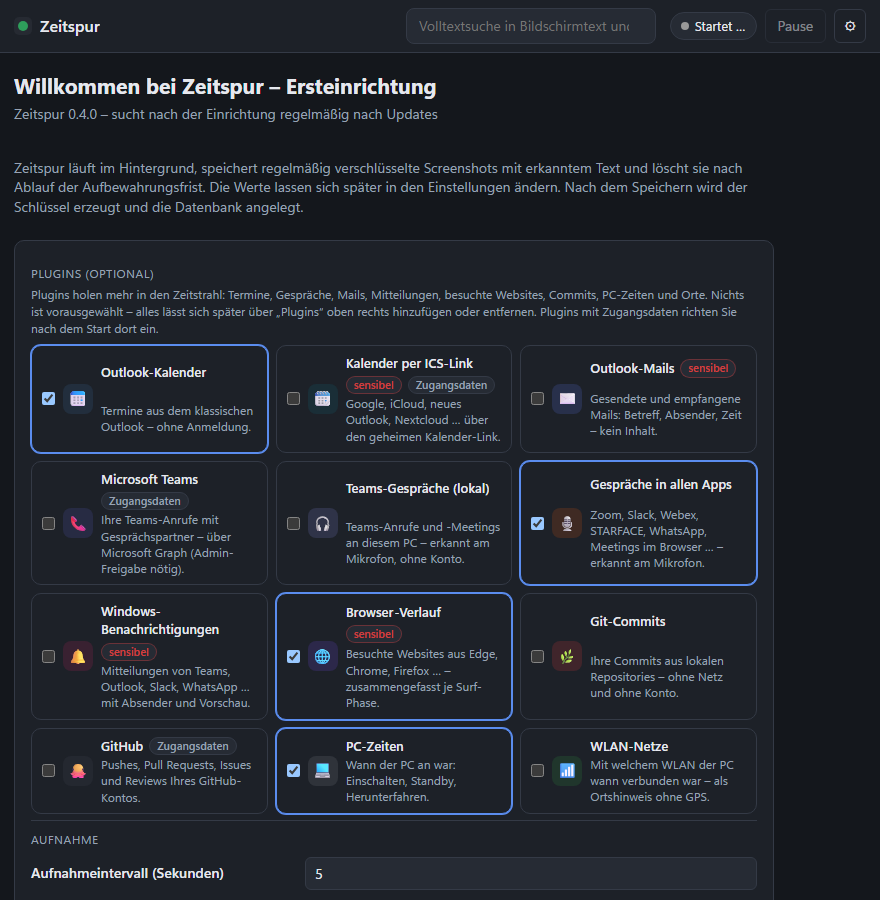
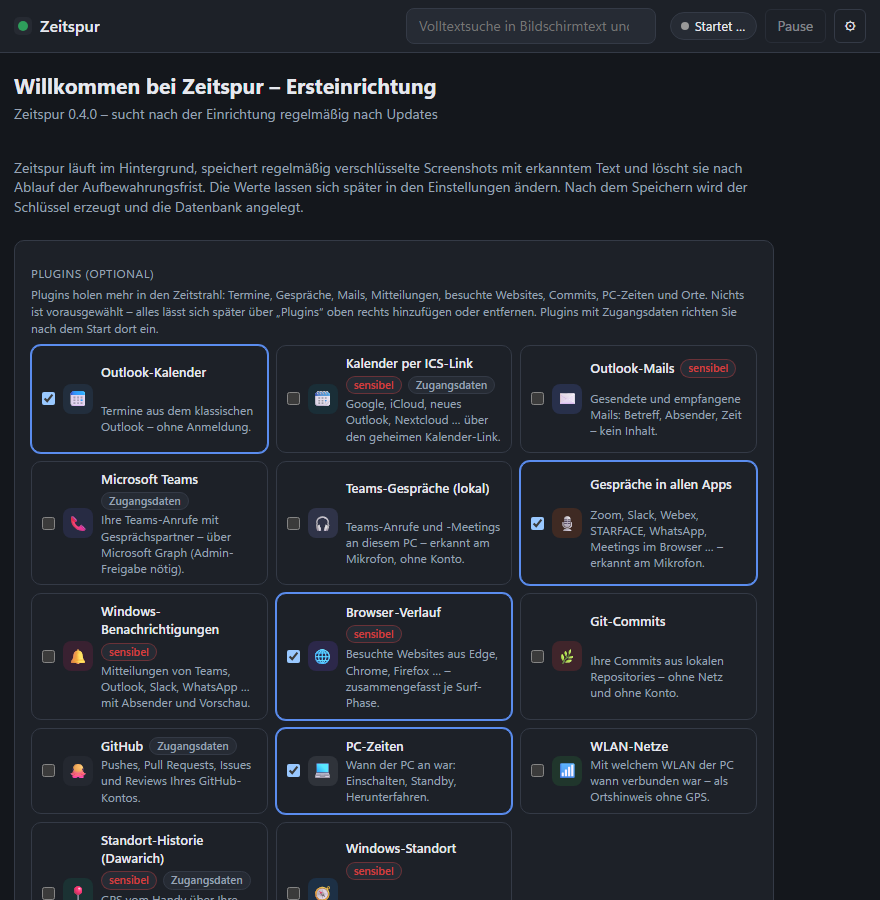
README und Screenshots auf den Stand von 0.4.0
Screenshot-Werkzeug repariert: Seit der CSP-Härtung in 0.4.0 blockierte die Oberfläche die eingeschleusten
Demo-Antworten (ohne Nonce, an falscher Stelle) - tools\screenshots.py hätte nur leere Bilder geliefert. Der
Demo-Tag ist jetzt gestern, weil die Standort-Spur nie über "jetzt" hinausreicht (sonst hingen die Bilder von
der Uhrzeit ab), und die Detailansicht klickt in genau den vorbereiteten Eintrag statt auf eine Grenze.

Die Demo hat einen GPS-Tag (Zuhause, Autofahrt ins Büro, zu Fuß zum Mittagessen und zurück), gebaut mit
dawarich.events_from_points wie im echten Plugin. Neues Bild orte.png zeigt den Tagesablauf der Standort-Spur.

README: Ausschlussliste gilt für jedes sichtbare Fenster, tägliche Sicherung dokumentiert (samt Zurückspielen),
fehlende Konfigurationsschlüssel, Tray-Eintrag "Nach Updates suchen", Kopfzeile mit Orte und Plugins,
MCP-Werkzeuge mit allen Plugin-Ereignissen, die Karte ist nicht mehr die "einzige" Internet-Stelle,
Projektstruktur vervollständigt, Projektseite jetzt auf www.timschaller.de.

Tests: Die Demo-Seite erfüllt die CSP; der Demo-Tag erzählt stimmige Wege.

Changed region(s): [[0.0307, 0.9022, 0.2761, 1.0], [0.3068, 0.9333, 0.5216, 1.0]]

diff --git a/tools/demo_ui.py b/tools/demo_ui.py
@@ -12,8 +12,10 @@ from __future__ import annotations
 
 import argparse
 import json
+import math
 import os
 import random
+import re
 import sys
 import tempfile
 import threading
@@ -24,11 +26,54 @@ ROOT = Path(__file__).resolve().parents[1]
 sys.path.insert(0, str(ROOT))
 
 DEMO_PLUGINS = ["outlook", "calls_local", "outlook_mail", "notifications", "browser_history", "git", "github",
-                "pc_times", "wifi"]
+                "pc_times", "wifi", "dawarich"]
+# Erfundene Orte fuer die Standort-Spur (Koordinaten wie im README-Beispiel; nichts davon ist ein echter Ort)
+BUERO = (52.5163, 13.3777)
+ZUHAUSE = (52.4380, 13.3200)
+BISTRO = (52.5225, 13.3880)
+KNOWN_PLACES = ["Büro;52.5163;13.3777;200", "Zuhause;52.4380;13.3200;150"]
 
 
 def _ms(day: date, hh: int, mm: int) -> int:
     return int(datetime(day.year, day.month, day.day, hh, mm).timestamp() * 1000)
+
+
+def demo_gps(day: date) -> list[dict]:
+    """Ein GPS-Tag vom Handy (Plugin Dawarich): morgens Zuhause, Fahrt ins Buero, mittags zu Fuss ins Bistro
+    (der PC ist dann im Standby), abends zurueck. Als Rohpunkte - Aufenthalte und Fahrten macht das Plugin selbst."""
+    from zeitspur import dawarich
+    from zeitspur.location import Point
+
+    rnd = random.Random(7)   # eigener Zufall, damit die Bildschirm-Demo daneben unveraendert bleibt
+    t = lambda hh, mm: _ms(day, hh, mm)  # noqa: E731
+    points: list[Point] = []
+
+    def stay(place: tuple[float, float], start: int, end: int, every_min: int) -> None:
+        for ts in range(start, end + 1, every_min * 60_000):
+            points.append(Point(ts, place[0] + rnd.uniform(-2e-4, 2e-4), place[1] + rnd.uniform(-3e-4, 3e-4), 15.0))
+
+    def move(a: tuple[float, float], b: tuple[float, float], start: int, end: int, *, drive: bool) -> None:
+        # Auto: sanft an- und abfahren, am schnellsten in der Mitte (doppelter Durchschnitt); zu Fuss gleichmaessig
+        n = max(2, (end - start) // 30_000)
+        for i in range(n + 1):
+            x = i / n
+            s = x - math.sin(2 * math.pi * x) / (2 * math.pi) if drive else x
+            points.append(Point(start + (end - start) * i // n, a[0] + (b[0] - a[0]) * s, a[1] + (b[1] - a[1]) * s, 8.0))
+
+    evening = lambda hh, mm: _ms(day - timedelta(days=1), hh, mm)  # noqa: E731
+    stay(ZUHAUSE, evening(19, 30), evening(23, 30), 30)
+    stay(ZUHAUSE, t(6, 40), t(7, 29), 10)
+    move(ZUHAUSE, BUERO, t(7, 30), t(7, 50), drive=True)
+    stay(BUERO, t(7, 52), t(12, 5), 15)
+    move(BUERO, BISTRO, t(12, 7), t(12, 19), drive=False)
+    stay(BISTRO, t(12, 20), t(12, 36), 4)
+    move(BISTRO, BUERO, t(12, 37), t(12, 49), drive=False)
+    stay(BUERO, t(12, 50), t(17, 32), 15)
+    move(BUERO, ZUHAUSE, t(17, 33), t(17, 53), drive=True)
+    stay(ZUHAUSE, t(17, 55), t(22, 0), 20)
+    iso = lambda ms: datetime.fromtimestamp(ms / 1000).astimezone().isoformat()  # noqa: E731
+    visits = [{"name": "Bistro am Markt", "started_at": iso(t(12, 20)), "ended_at": iso(t(12, 36))}]
+    return dawarich.events_from_points(points, visits, evening(0, 0), t(23, 59))   # mit dem Vorabend
 
 
 def demo_events(day: date) -> dict[str, list[dict]]:
@@ -82,6 +127,7 @@ def demo_events(day: date) -> dict[str, list[dict]]:
                       "subject": "PC an (Standby beendet → Herunterfahren)", "category": "pc_on", "extra": "{}"}],
         "wifi": [{"ext_id": "wifi-1", "ts_start": t(7, 56), "ts_end": t(17, 30), "subject": "Büro (WLAN Firma-WLAN)",
                   "location": "Büro", "category": "wifi", "extra": json.dumps({"ssid": "Firma-WLAN", "place": "Büro"})}],
+        "dawarich": demo_gps(day),
     }
 
 
@@ -134,15 +180,20 @@ def build_demo(work: Path, days: int = 2):
     from zeitspur.timeline_ui.bridge import Bridge
 
     ensure_data_dir()
-    cfg = Config(installed_plugins=list(DEMO_PLUGINS),
+    cfg = Config(installed_plugins=list(DEMO_PLUGINS), known_places=list(KNOWN_PLACES),
                  plugin_settings={"git": {"folders": [str(work)], "authors": []},
                                   "github": {"username": "beispiel"},
                                   "wifi": {"places": ["Firma-WLAN = Büro"]}})
     save_config(cfg)
+    from zeitspur import dawarich
+
+    dawarich.save_credentials("https://dawarich.beispiel.de", "demo")   # nur im Wegwerf-Ordner, gilt als eingerichtet
     key = load_or_create_key(key_path())
     storage = Storage(cfg.resolved_db_path, key)
     seed(storage, days)
-    day = date.today()
+    # Demo-Tag ist gestern: Die Standort-Spur reicht nie ueber "jetzt" hinaus - mit heute hingen die Bilder von
+    # der Uhrzeit ab (kurz nach Mitternacht fehlte die Zeile "Orte" ganz).
+    day = date.today() - timedelta(days=1)
     for source, rows in demo_events(day).items():
         storage.replace_events(source, _ms(day, 0, 0), _ms(day + timedelta(days=1), 0, 0), rows)
     return Bridge(DemoApp(cfg, storage, key, work)), day
@@ -150,9 +201,9 @@ def build_demo(work: Path, days: int = 2):
 
 # Ersetzt window.pywebview.api durch eingebettete Demo-Antworten. R.mode (oder ?demo=...) waehlt die Ansicht:
 # "" Zeitstrahl, "detail" ein Eintrag mit Bild und Text, "plugins" Plugin-Browser mit Detailansicht,
-# "setup" Ersteinrichtung mit einigen gewaehlten Plugins.
+# "setup" Ersteinrichtung mit einigen gewaehlten Plugins, "orte" der Tagesablauf der Standort-Spur.
 _FAKE_API = """
-<script>
+<script nonce="__NONCE__">
 (() => {
   const R = /*__DEMO__*/null;
   const mode = new URLSearchParams(location.search).get("demo") || R.mode || "";
@@ -183,10 +234,14 @@ _FAKE_API = """
       const block = [...document.querySelectorAll(".block")]
         .find((b) => b.title.startsWith(R.focusTitle) && b.title.includes(R.focusTime));
       if (!block) return;
+      // mitten in den Abschnitt des vorbereiteten Eintrags klicken - die Blockmitte laege bei gerader Anzahl genau
+      // auf der Grenze zweier Eintraege, und die Oberflaeche wuerde je nach Rundung den anderen oeffnen
       const r = block.getBoundingClientRect();
-      block.dispatchEvent(new MouseEvent("click", { bubbles: true, clientX: r.left + r.width / 2, clientY: r.top + 6 }));
+      const x = r.left + r.width * (R.focusIndex + 0.5) / R.focusCount;
+      block.dispatchEvent(new MouseEvent("click", { bubbles: true, clientX: x, clientY: r.top + 6 }));
       later(600, () => document.getElementById("detail").scrollIntoView({ block: "end" }));
     });
+    if (mode === "orte") later(500, () => document.getElementById("mapBtn").click());
     if (mode === "setup") later(600, () => {
       for (const p of document.querySelectorAll(".pick")) {
         if (R.pickPlugins.some((n) => p.textContent.includes(n))) p.querySelector("input").click();
@@ -196,7 +251,7 @@ _FAKE_API = """
 })();
 </script>
 """
-MODES = ("", "detail", "plugins", "setup", "update")
+MODES = ("", "detail", "plugins", "setup", "update", "orte")
 
 
 def changelog_sections() -> list[tuple[str, str]]:
@@ -227,6 +282,7 @@ def _demo_payload(bridge, day: date) -> dict:
     # So, wie andere Zeitspur bekommen: die Release-Ausgabe mit Update-Dienst (die Karte ist ab Werk aus)
     demo["state"]["features"] = {**demo["state"]["features"], "updates": True}
     demo["state"]["map_enabled"] = False
+    demo["state"]["today"] = day.isoformat()   # die Oberflaeche startet mit diesem Tag (Datumsfeld passend zur Ansicht)
     # Ersteinrichtung wie beim ersten Start: noch keine Datenbank, die Aufnahme laeuft noch nicht
     from zeitspur.capture import STATE_LABELS, CaptureState
     demo["firstRun"] = {"first_run": True, "ready": False, "capture_state": CaptureState.STARTING.value,
@@ -239,6 +295,7 @@ def _demo_payload(bridge, day: date) -> dict:
     demo["entries"][entry_id] = bridge.get_entry(entry_id)
     demo["thumbs"][entry_id] = bridge.get_thumbnail(entry_id, 900)
     hm = lambda ms: datetime.fromtimestamp(ms / 1000).strftime("%H:%M")  # noqa: E731
+    demo["focusIndex"], demo["focusCount"] = index, max(1, block["count"])
     demo["focusTitle"] = block["window_title"]
     demo["focusTime"] = f"{hm(block['ts_start'])} – {hm(block['ts_end'])}"   # wie im Tooltip des Blocks
     return demo
@@ -255,8 +312,14 @@ def _page(demo: dict, mode: str) -> str:
         demo["state"]["features"] = {**demo["state"]["features"], "updates": True}
     payload = json.dumps(demo, ensure_ascii=False).replace("</", "<\\/")
     html = build_html()
-    idx = html.rfind("<script>", 0, html.rfind("window.pywebview"))   # vor dem App-Skript einfuegen
-    return html[:idx] + _FAKE_API.replace("/*__DEMO__*/null", payload) + html[idx:]
+    # Die Seite laesst per CSP nur Skripte mit ihrem Nonce zu - die Demo-Antworten brauchen denselben, sonst
+    # blockiert der Browser sie und die Oberflaeche bleibt leer (so in 0.4.0 unbemerkt passiert).
+    nonce = re.search(r'<script nonce="([^"]+)">', html)
+    idx = html.rfind("<script", 0, html.rfind("window.pywebview"))   # vor dem App-Skript einfuegen
+    if nonce is None or idx < 0:
+        raise RuntimeError("App-Skript oder CSP-Nonce in build_html() nicht gefunden - demo_ui.py anpassen")
+    fake = _FAKE_API.replace("__NONCE__", nonce.group(1)).replace("/*__DEMO__*/null", payload)
+    return html[:idx] + fake + html[idx:]
 
 
 def write_previews(out_dir: Path, modes=MODES) -> dict[str, Path]:

diff --git a/tests/test_demo_ui.py b/tests/test_demo_ui.py
@@ -1,0 +1,33 @@
+"""tools/demo_ui.py baut die Seiten fuer die README-Screenshots (tools/screenshots.py) - mit erfundenen Daten."""
+import importlib.util
+import json
+import re
+from datetime import date
+from pathlib import Path
+
+ROOT = Path(__file__).resolve().parents[1]
+
+
+def _demo_ui():
+    spec = importlib.util.spec_from_file_location("demo_ui_fuer_tests", ROOT / "tools" / "demo_ui.py")
+    module = importlib.util.module_from_spec(spec)
+    spec.loader.exec_module(module)
+    return module
+
+
+def test_demo_api_runs_under_the_page_csp():
+    """Die Demo-Antworten muessen den Nonce der Seite tragen und vor dem App-Skript stehen - sonst blockiert die
+    CSP sie, und alle Screenshots zeigen eine leere Oberflaeche (nach der CSP-Haertung in 0.4.0 so passiert)."""
+    page = _demo_ui()._page({"state": {}}, "")
+    allowed = re.search(r"script-src 'nonce-([^']+)'", page).group(1)
+    tags = re.findall(r"<script[^>]*>", page)
+    assert len(tags) >= 2 and all(tag == f'<script nonce="{allowed}">' for tag in tags)
+    assert page.index("window.pywebview = { api") < page.rindex("<script")   # vor dem App-Skript
+
+
+def test_demo_day_tells_a_consistent_location_story():
+    """Die Standort-Spur im Screenshot: Autofahrt ins Buero, zu Fuss zum Mittagessen und zurueck, abends heim."""
+    rows = _demo_ui().demo_gps(date(2026, 9, 9))
+    modes = [json.loads(r["extra"]).get("mode") for r in rows if r["category"] == "track"]
+    assert modes == ["car", "walk", "walk", "car"]
+    assert any(r["subject"] == "Bistro am Markt" for r in rows if r["category"] == "visit")

diff --git a/tools/screenshots.py b/tools/screenshots.py
@@ -37,7 +37,7 @@ def below_update_bar(img: Image.Image) -> int:
 # Ansicht -> (Dateiname, Fenstergroesse, Hoehe des Ausschnitts von oben: Zahl, Funktion oder None = ganzes Fenster)
 SHOTS = {"": ("zeitstrahl", SIZE, 488), "detail": ("details", (1440, 1080), None),
          "plugins": ("plugins", (1440, 1080), None), "setup": ("ersteinrichtung", (880, 900), None),
-         "update": ("update", SIZE, below_update_bar)}
+         "update": ("update", SIZE, below_update_bar), "orte": ("orte", (1440, 1080), 960)}
 
 
 def save_logo(out: Path = OUT / "logo.png", size: int = 512) -> Path:
